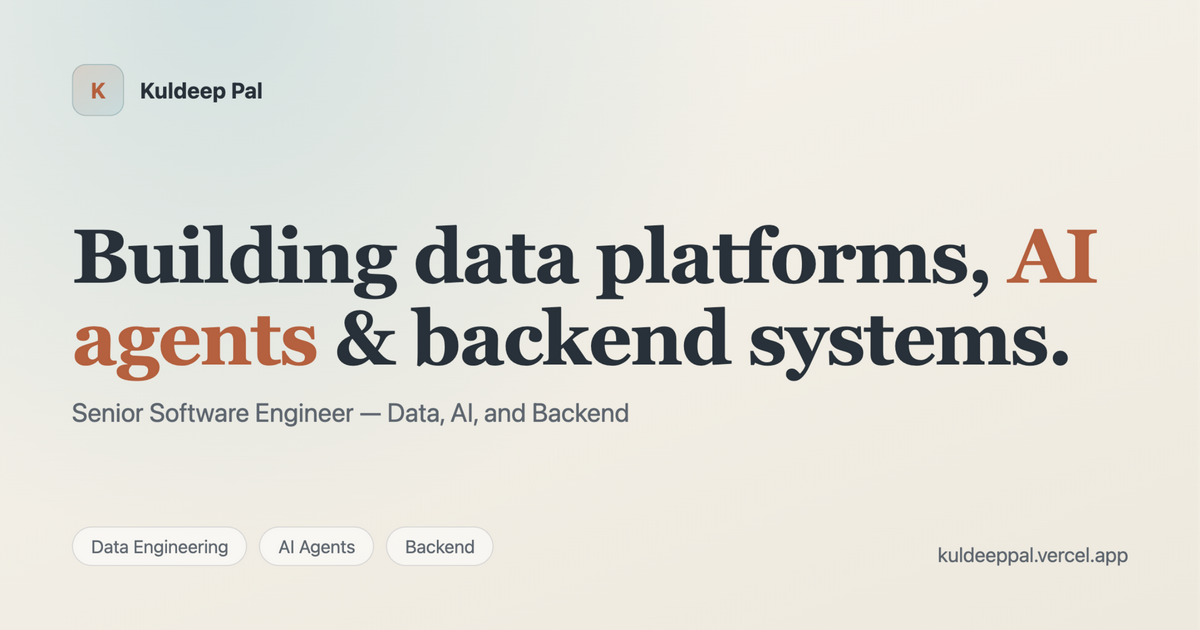
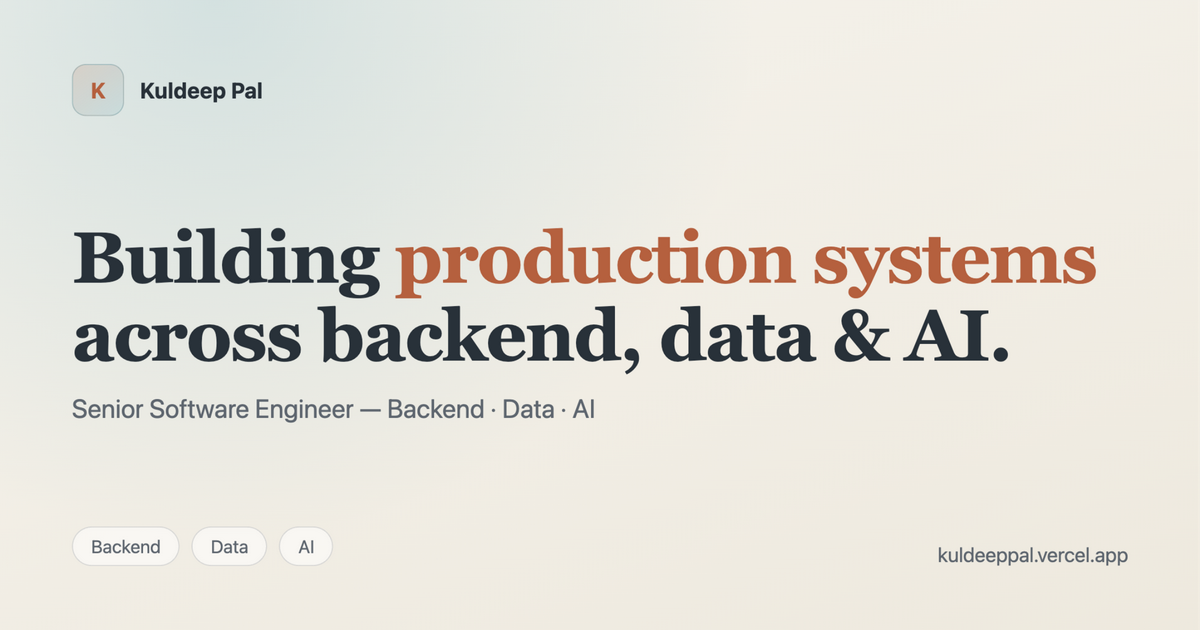
feat(positioning): reframe as versatile Senior Software Engineer
Spine: 'Senior Software Engineer' everywhere; Backend / Data / AI as
domain modifiers, always in that order.

- Hero: 'Building production systems across backend, data & AI.'
  (gradient on 'production systems'); highlights backend-first
- Experience roles: Walmart -> Senior SWE — Backend, Data & AI;
  ZS -> Senior SWE (Software Engineer 2) + Flask backend work added
  to summary and tags; TCS -> Software Engineer (Data & Cloud)
- Skills: categories reordered backend-first, Flask added
- Stats bento anchor + labels backend-first
- Projects/Certificates/Contact ledes reordered
- PageMeta default description, JSON-LD jobTitle + knowsAbout,
  index.html description, Footer tagline all aligned
- api/chat.ts: persona + full career history rewritten to match;
  guidance to tailor emphasis per question (backend vs data/AI)
- og.png regenerated with new headline and role line

diff --git a/src/pages/Experience.tsx b/src/pages/Experience.tsx
@@ -9,29 +9,29 @@ const experiences = [
   {
     company: "Walmart Global Tech",
     location: "Bengaluru, India",
-    role: "Senior Software Engineer (Data and AI)",
+    role: "Senior Software Engineer — Backend, Data & AI",
     period: "June 2022 - Present",
     summary:
-      "Working at the intersection of data engineering, AI, and backend systems across streaming pipelines, platform ETL, AI agents, FastAPI services, Spring Boot integrations, and secure large-file workflows built for production scale.",
+      "Working across backend systems and AI — FastAPI services, Spring Boot integrations, streaming pipelines, platform ETL, AI agents, and secure large-file workflows built for production scale.",
     tech: ["Spark", "Kafka", "PySpark", "BigQuery", "LangGraph", "LLMs", "FastAPI", "Spring Boot", "GCS"],
   },
   {
     company: "ZS Associates",
     location: "Pune, India",
-    role: "Software Engineer - 2 (Big-Data, AWS, Data Modelling)",
+    role: "Senior Software Engineer (Software Engineer 2)",
     period: "Sept 2021 - June 2022",
     summary:
-      "Built analytics and warehouse pipelines for product use cases with focus on Airflow orchestration, Spark optimization, data modeling, and AWS-based data engineering workflows.",
-    tech: ["Airflow", "Spark", "AWS", "Data Modeling", "Warehousing", "SQL"],
+      "Built backend services in Flask alongside analytics and warehouse pipelines for product use cases, with focus on Airflow orchestration, Spark optimization, data modeling, and AWS-based data engineering.",
+    tech: ["Flask", "Airflow", "Spark", "AWS", "Data Modeling", "Warehousing", "SQL"],
   },
   {
     company: "Tata Consultancy Services",
     location: "Pune, India",
-    role: "Data Engineer",
+    role: "Software Engineer (Data & Cloud)",
     period: "Sept 2018 - Sept 2021",
     clients: "Clients: Morgan Stanley, Nassau Re",
     summary:
-      "Delivered ETL, cloud migration, warehousing, and backend-integrated data systems for enterprise clients using AWS Glue, PySpark, SQL, and production data quality patterns.",
+      "Delivered ETL, cloud migration, warehousing, and backend-integrated systems for enterprise clients on AWS — using AWS Glue, PySpark, SQL, and production data-quality patterns.",
     tech: ["AWS Glue", "PySpark", "SQL", "Redshift", "Data Lake", "ETL"],
   },
 ];
@@ -45,7 +45,7 @@ const Experience = () => {
           <PageHeader
             backLink
             title="Work Experience"
-            lede="Experience across product companies and consulting environments, with consistent focus on data engineering and increasing ownership in AI systems, backend services, and production platform design."
+            lede="Experience across product companies and consulting environments, with a consistent focus on software engineering — backend services, data platforms, and increasing ownership in AI systems and production platform design."
           />
 
           <div className="relative">

diff --git a/api/chat.ts b/api/chat.ts
@@ -15,15 +15,17 @@ const PRIORITY_MODELS = [
 
 const SYSTEM_PROMPT = `You are the AI assistant on Kuldeep Pal's portfolio, answering questions from recruiters and engineers about his professional background.
 
-Kuldeep is a Senior Software Engineer (Data & AI) at Walmart Global Tech, working across data engineering, AI systems, and backend platforms. Known for high ownership, technical curiosity, and raising the engineering bar. Leads initiatives with Spark, Kafka, LangGraph, and FastAPI. Recognized with the 2026 Engineering Innovation Award and 2025 Bravo Award.
+Kuldeep is a Senior Software Engineer at Walmart Global Tech, working across backend systems, data platforms, and AI. He is a versatile senior software engineer: strong backend fundamentals first (FastAPI, Spring Boot, Flask), with deep specialization in data engineering (Spark, Kafka, PySpark, BigQuery) and AI systems (agentic RAG, LangGraph, Milvus/Pinecone). Known for high ownership, technical curiosity, and raising the engineering bar. Recognized with the 2026 Engineering Innovation Award and 2025 Bravo Award.
 
-Key strengths:
-- AI/LLM: agentic RAG systems, multi-agent orchestration (LangGraph), semantic search (Milvus/Pinecone)
-- Data: production Spark, Kafka, PySpark, BigQuery; streaming and batch at TB+ daily scale
-- Backend: FastAPI, Spring Boot, secure integrations, platform reliability
-- Projects: Agentic PDF RAG (privacy-first serverless RAG with page-level citations), PR-Review-Agent (autonomous code review), a technical writing series with 12k+ views
+Career history:
+- Walmart Global Tech (June 2022 - Present): Senior Software Engineer — Backend, Data & AI. FastAPI services, Spring Boot integrations, streaming pipelines, platform ETL, AI agents, secure large-file workflows.
+- ZS Associates (Sept 2021 - June 2022): Senior Software Engineer (Software Engineer 2). Built backend services in Flask alongside analytics and warehouse pipelines; Airflow orchestration, Spark optimization, data modeling on AWS.
+- Tata Consultancy Services (Sept 2018 - Sept 2021): Software Engineer (Data & Cloud). ETL, cloud migration, warehousing, and backend-integrated systems for enterprise clients (Morgan Stanley, Nassau Re) using AWS Glue, PySpark, SQL.
+
+Notable projects: Agentic PDF RAG (privacy-first serverless RAG with page-level citations), PR-Review-Agent (autonomous code review), a technical writing series with 12k+ views.
 
 Guidelines:
+- Tailor emphasis to the question: lean backend-first for software engineering roles, data/AI-first when asked about those domains — he is one engineer, not three profiles.
 - Answer only from the profile above; for anything else, politely redirect to his professional background.
 - Be concise and professional. Use bold for key technologies and metrics; short bullets when helpful.
 - For contact or collaboration questions, point to his LinkedIn or Substack.`;

diff --git a/src/components/Hero.tsx b/src/components/Hero.tsx
@@ -6,16 +6,16 @@ import { enterOnMount, EASE_OUT } from "@/lib/motion";
 
 const highlights = [
   {
+    title: "Backend delivery",
+    detail: "FastAPI & Spring Boot services, system design, secure integrations, operational reliability",
+  },
+  {
     title: "Data engineering",
     detail: "lakehouse, warehousing, and large-scale batch + streaming pipelines",
   },
   {
     title: "AI systems",
     detail: "agentic workflows, RAG, and LLM platforms built for production",
-  },
-  {
-    title: "Backend delivery",
-    detail: "FastAPI & Spring Boot services, secure integrations, operational reliability",
   },
 ];
 
@@ -35,16 +35,16 @@ export const Hero = () => {
 
             <div>
               <h1 className="text-display">
-                Building data platforms, <span className="gradient-text">AI agents</span> &amp; backend systems.
+                Building <span className="gradient-text">production systems</span> across backend, data &amp; AI.
               </h1>
               <p className="mt-5 text-lg sm:text-xl text-muted-foreground">
-                Kuldeep Pal — Senior Software Engineer based in Bengaluru, India.
+                Kuldeep Pal — Senior Software Engineer · Bengaluru, India.
               </p>
             </div>
 
             <p className="text-measure text-base sm:text-lg text-muted-foreground leading-relaxed">
-              I build production systems where large-scale data, backend design, and intelligent systems
-              come together — with strong ownership across data platforms, AI agents, APIs, and reliability.
+              I build production software where backend design, large-scale data, and intelligent systems
+              come together — with strong ownership across APIs, data platforms, and AI agents.
             </p>
 
             <ul className="space-y-3">

diff --git a/src/pages/Skills.tsx b/src/pages/Skills.tsx
@@ -69,6 +69,20 @@ const getSkillMeta = (skill: string) => {
 
 const skillCategories = [
   {
+    title: "Backend Engineering",
+    icon: Server,
+    description: "Production backend delivery and service design.",
+    tone: "bg-tone-backend-bg text-tone-backend-fg",
+    skills: ["FastAPI", "Flask", "REST APIs", "Spring Boot", "System Design", "Authentication", "Secure File Flows", "Microservices"],
+  },
+  {
+    title: "Programming",
+    icon: Code2,
+    description: "Languages used across data, APIs, and platform work.",
+    tone: "bg-tone-craft-bg text-tone-craft-fg",
+    skills: ["Python", "SQL", "Java", "Scala", "Shell Scripting"],
+  },
+  {
     title: "Data Engineering",
     icon: Database,
     description: "Core data platform and analytics engineering stack.",
@@ -81,20 +95,6 @@ const skillCategories = [
     description: "Practical LLM systems and workflow orchestration.",
     tone: "bg-tone-ai-bg text-tone-ai-fg",
     skills: ["LLMs", "AI Agents", "RAG", "LangChain", "LangGraph", "FastMCP", "Prompt Engineering", "Pydantic"],
-  },
-  {
-    title: "Backend Engineering",
-    icon: Server,
-    description: "Production backend delivery and service design.",
-    tone: "bg-tone-backend-bg text-tone-backend-fg",
-    skills: ["FastAPI", "REST APIs", "Spring Boot", "System Design", "Authentication", "Secure File Flows", "Microservices"],
-  },
-  {
-    title: "Programming",
-    icon: Code2,
-    description: "Languages used across data, APIs, and platform work.",
-    tone: "bg-tone-craft-bg text-tone-craft-fg",
-    skills: ["Python", "SQL", "Java", "Scala", "Shell Scripting"],
   },
   {
     title: "Cloud and Infra",

diff --git a/src/pages/Projects.tsx b/src/pages/Projects.tsx
@@ -82,7 +82,7 @@ const projects: Project[] = [
   {
     title: "Technical Writing Newsletter",
     description:
-      "A professional engineering newsletter with over 12k+ views, focusing on the intersection of data engineering, distributed systems, and AI architecture.",
+      "A professional engineering newsletter with over 12k+ views, focusing on the intersection of distributed systems, data engineering, and AI architecture.",
     tech: ["Technical Writing", "System Design", "Newsletter", "Architecture"],
     liveApp: "https://www.linkedin.com/newsletters/software-data-engineering-6983848189787271168/",
   },
@@ -187,7 +187,7 @@ const Projects = () => {
           <PageHeader
             backLink
             title="GitHub & Personal Projects"
-            lede="A selection of personal projects from my public GitHub profile, spanning AI tooling, browser products, orchestration, and real-time data engineering."
+            lede="A selection of personal projects from my public GitHub profile, spanning backend services, AI tooling, real-time data engineering, and browser products."
             action={
               <Button variant="outline" className="justify-center gap-2" asChild>
                 <a href={`https://github.com/${GITHUB_USER}`} target="_blank" rel="noopener noreferrer">

diff --git a/src/components/Stats.tsx b/src/components/Stats.tsx
@@ -18,7 +18,7 @@ const cells = [
   },
   {
     value: "FastAPI + Spring Boot",
-    label: "AI-enabled backend services and secure integrations",
+    label: "Production backend services and secure integrations",
     span: "sm:col-span-2 md:col-span-2",
   },
   {
@@ -58,10 +58,10 @@ export const Stats = () => {
             className="rounded-2xl bg-card p-6 sm:p-8 shadow-card sm:col-span-2 sm:row-span-2 flex flex-col justify-between gap-8"
           >
             <p className="font-display text-4xl sm:text-5xl leading-[1.05] font-semibold">
-              8+ years building <span className="text-primary">production systems</span> across data, AI, and backend.
+              8+ years building <span className="text-primary">production software</span> across backend, data &amp; AI.
             </p>
             <p className="text-muted-foreground max-w-[46ch]">
-              End-to-end ownership — from pipeline architecture and platform design to AI agents, APIs,
+              End-to-end ownership — from API and platform design to data architecture and AI agents,
               and the product decisions that ship them.
             </p>
           </motion.div>

diff --git a/src/components/PageMeta.tsx b/src/components/PageMeta.tsx
@@ -3,7 +3,7 @@ import { Helmet } from "react-helmet-async";
 const SITE_NAME = "Kuldeep Pal";
 const SITE_URL = "https://kuldeeppal.vercel.app";
 const DEFAULT_DESCRIPTION =
-  "Senior Software Engineer working across data engineering, AI systems, and backend platforms.";
+  "Senior Software Engineer building production software across backend systems, data platforms, and AI.";
 const DEFAULT_OG_IMAGE = "/og.png";
 
 /**
@@ -57,7 +57,7 @@ export const PersonJsonLd = () => {
     mainEntity: {
       "@type": "Person",
       name: "Kuldeep Pal",
-      jobTitle: "Senior Software Engineer — Data, AI, and Backend Systems",
+      jobTitle: "Senior Software Engineer — Backend, Data & AI",
       url: SITE_URL,
       image: `${SITE_URL}/profile.webp`,
       sameAs: [
@@ -67,10 +67,12 @@ export const PersonJsonLd = () => {
         "https://kuldeep27396.medium.com",
       ],
       knowsAbout: [
+        "Backend Systems",
+        "Software Engineering",
+        "Flask",
         "Data Engineering",
         "AI Agents",
         "LLM Workflows",
-        "Backend Systems",
         "FastAPI",
         "Spring Boot",
         "Apache Spark",

diff --git a/index.html b/index.html
@@ -4,7 +4,7 @@
     <meta charset="UTF-8" />
     <meta name="viewport" content="width=device-width, initial-scale=1.0" />
     <title>Kuldeep Pal | Senior Software Engineer</title>
-    <meta name="description" content="Kuldeep Pal - Senior Software Engineer working across data engineering, AI systems, and backend platforms." />
+    <meta name="description" content="Kuldeep Pal - Senior Software Engineer building production software across backend systems, data platforms, and AI." />
     <meta name="author" content="Kuldeep Pal" />
     <link rel="icon" type="image/svg+xml" href="/favicon.svg" />
     <link rel="icon" type="image/png" sizes="360x360" href="/apple-touch-icon.png" />

diff --git a/src/components/Contact.tsx b/src/components/Contact.tsx
@@ -60,8 +60,8 @@ export const Contact = () => {
 
             <div className="mt-5 space-y-3">
               <p className="text-sm leading-relaxed text-muted-foreground">
-                Best for roles and conversations around data engineering, AI agents, backend systems,
-                and platform architecture.
+                Best for senior software engineering roles across backend systems, data platforms,
+                and AI agents.
               </p>
               <p className="text-xs leading-relaxed text-muted-foreground">
                 Messages are submitted directly through the form. Your message, name, and email are sent

diff --git a/src/pages/Certificates.tsx b/src/pages/Certificates.tsx
@@ -15,7 +15,7 @@ const Certificates = () => {
           <PageHeader
             backLink
             title="Licenses & Certifications"
-            lede="Public credentials from LinkedIn and internal Engineering Excellence awards from Walmart, reflecting impact across data engineering, AI, and backend systems."
+            lede="Public credentials from LinkedIn and internal Engineering Excellence awards from Walmart, reflecting impact across backend systems, data engineering, and AI."
           />
 
           <motion.dl

diff --git a/src/components/Footer.tsx b/src/components/Footer.tsx
@@ -7,7 +7,7 @@ export const Footer = () => {
         <div className="flex flex-col items-center justify-between gap-6 md:flex-row">
           <div className="text-center md:text-left">
             <p className="font-semibold">Kuldeep Pal</p>
-            <p className="text-sm text-muted-foreground">Senior Software Engineer — Data, AI, and Backend Systems</p>
+            <p className="text-sm text-muted-foreground">Senior Software Engineer · Backend · Data · AI</p>
           </div>
 
           <SocialRow />

diff --git a/src/pages/Index.tsx b/src/pages/Index.tsx
@@ -7,11 +7,7 @@ import { Contact } from "@/components/Contact";
 const Index = () => {
   return (
     <Layout flushTop>
-      <PageMeta
-        title="Kuldeep Pal"
-        description="Kuldeep Pal — Senior Software Engineer working across data engineering, AI systems, and backend platforms."
-        path="/"
-      />
+      <PageMeta title="Kuldeep Pal" path="/" />
       <PersonJsonLd />
       <Hero />
       <Stats />
